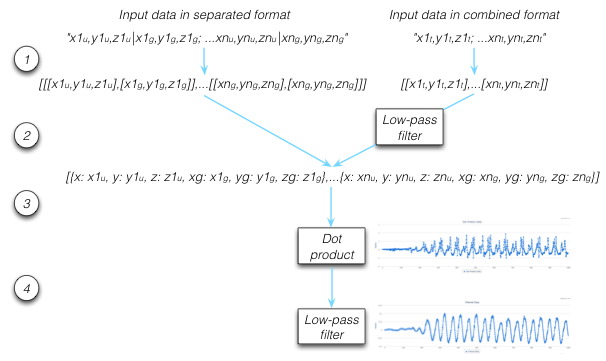
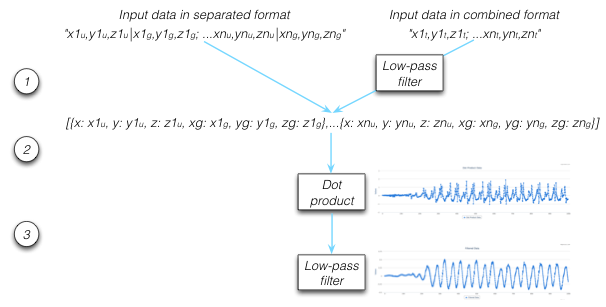
Simplify flow diagram

diff --git a/pedometer/chapter.md b/pedometer/chapter.md
@@ -211,16 +211,17 @@ The diagram below outlines the basic idea. We'll write a small parser to a stand
 
 Converting multiple input formats into one common format is an example of *separation of concerns*, a commonly-used design principle, which promotes splitting a program into numerous distinct pieces, where every piece has one primary concern. We'll revist this idea several times throughout the chapter. It's a beatiful way to write clean, maintainable code that's easily extensible.
 
-Based on the solution we defined above, we'll need our code to do a few tasks to our input data in order to count steps:
+Based on the solution we defined above, we'll need our code to do 3 tasks to our input data in order to count steps:
 
-1. Parse our text data and extract numerical data. Since our input data is coming in as pure text, we'll clean it up into numerical data first.
-2. Parse our input formats into a standard format. We know we'll need to work with user acceleration and gravitational acceleration separately in order to follow our solution, so our standard format will need to split out the two accelerations. This means that if our data is in the combined format, we'll need to first pass it through a low-pass filter in this part of the code.
-3. Isolate movement in the direction of gravity using the dot product.
-4. Filter our data series and smooth out our waveform using another low-pass filter.
+1. Parse our input formats into a standard format. We know we'll need to work with user acceleration and gravitational acceleration separately in order to follow our solution, so our standard format will need to split out the two accelerations. This means that if our data is in the combined format, we'll need to first pass it through a low-pass filter in this part of the code.
+2. Isolate movement in the direction of gravity using the dot product.
+3. Filter our data series and smooth out our waveform using another low-pass filter.
 
 ![](chapter-figures/input-data-workflow.png)\
 
-These 4 tasks are all related to taking input data, and parsing and processing it to get it to a state where our resulting signal is clean enough for us to count steps. Due to this relationship, it makes sense to combine these tasks into one class. We'll call it a **Parser**. 
+Take note in the diagram above of the standard input format we've chosen. We'll discuss the choice further with our code.
+
+These 3 tasks are all related to taking input data, and parsing and processing it to get it to a state where our resulting signal is clean enough for us to count steps. Due to this relationship, it makes sense to combine these tasks into one class. We'll call it a **Parser**. 
 
 ## The Parser Class
 
